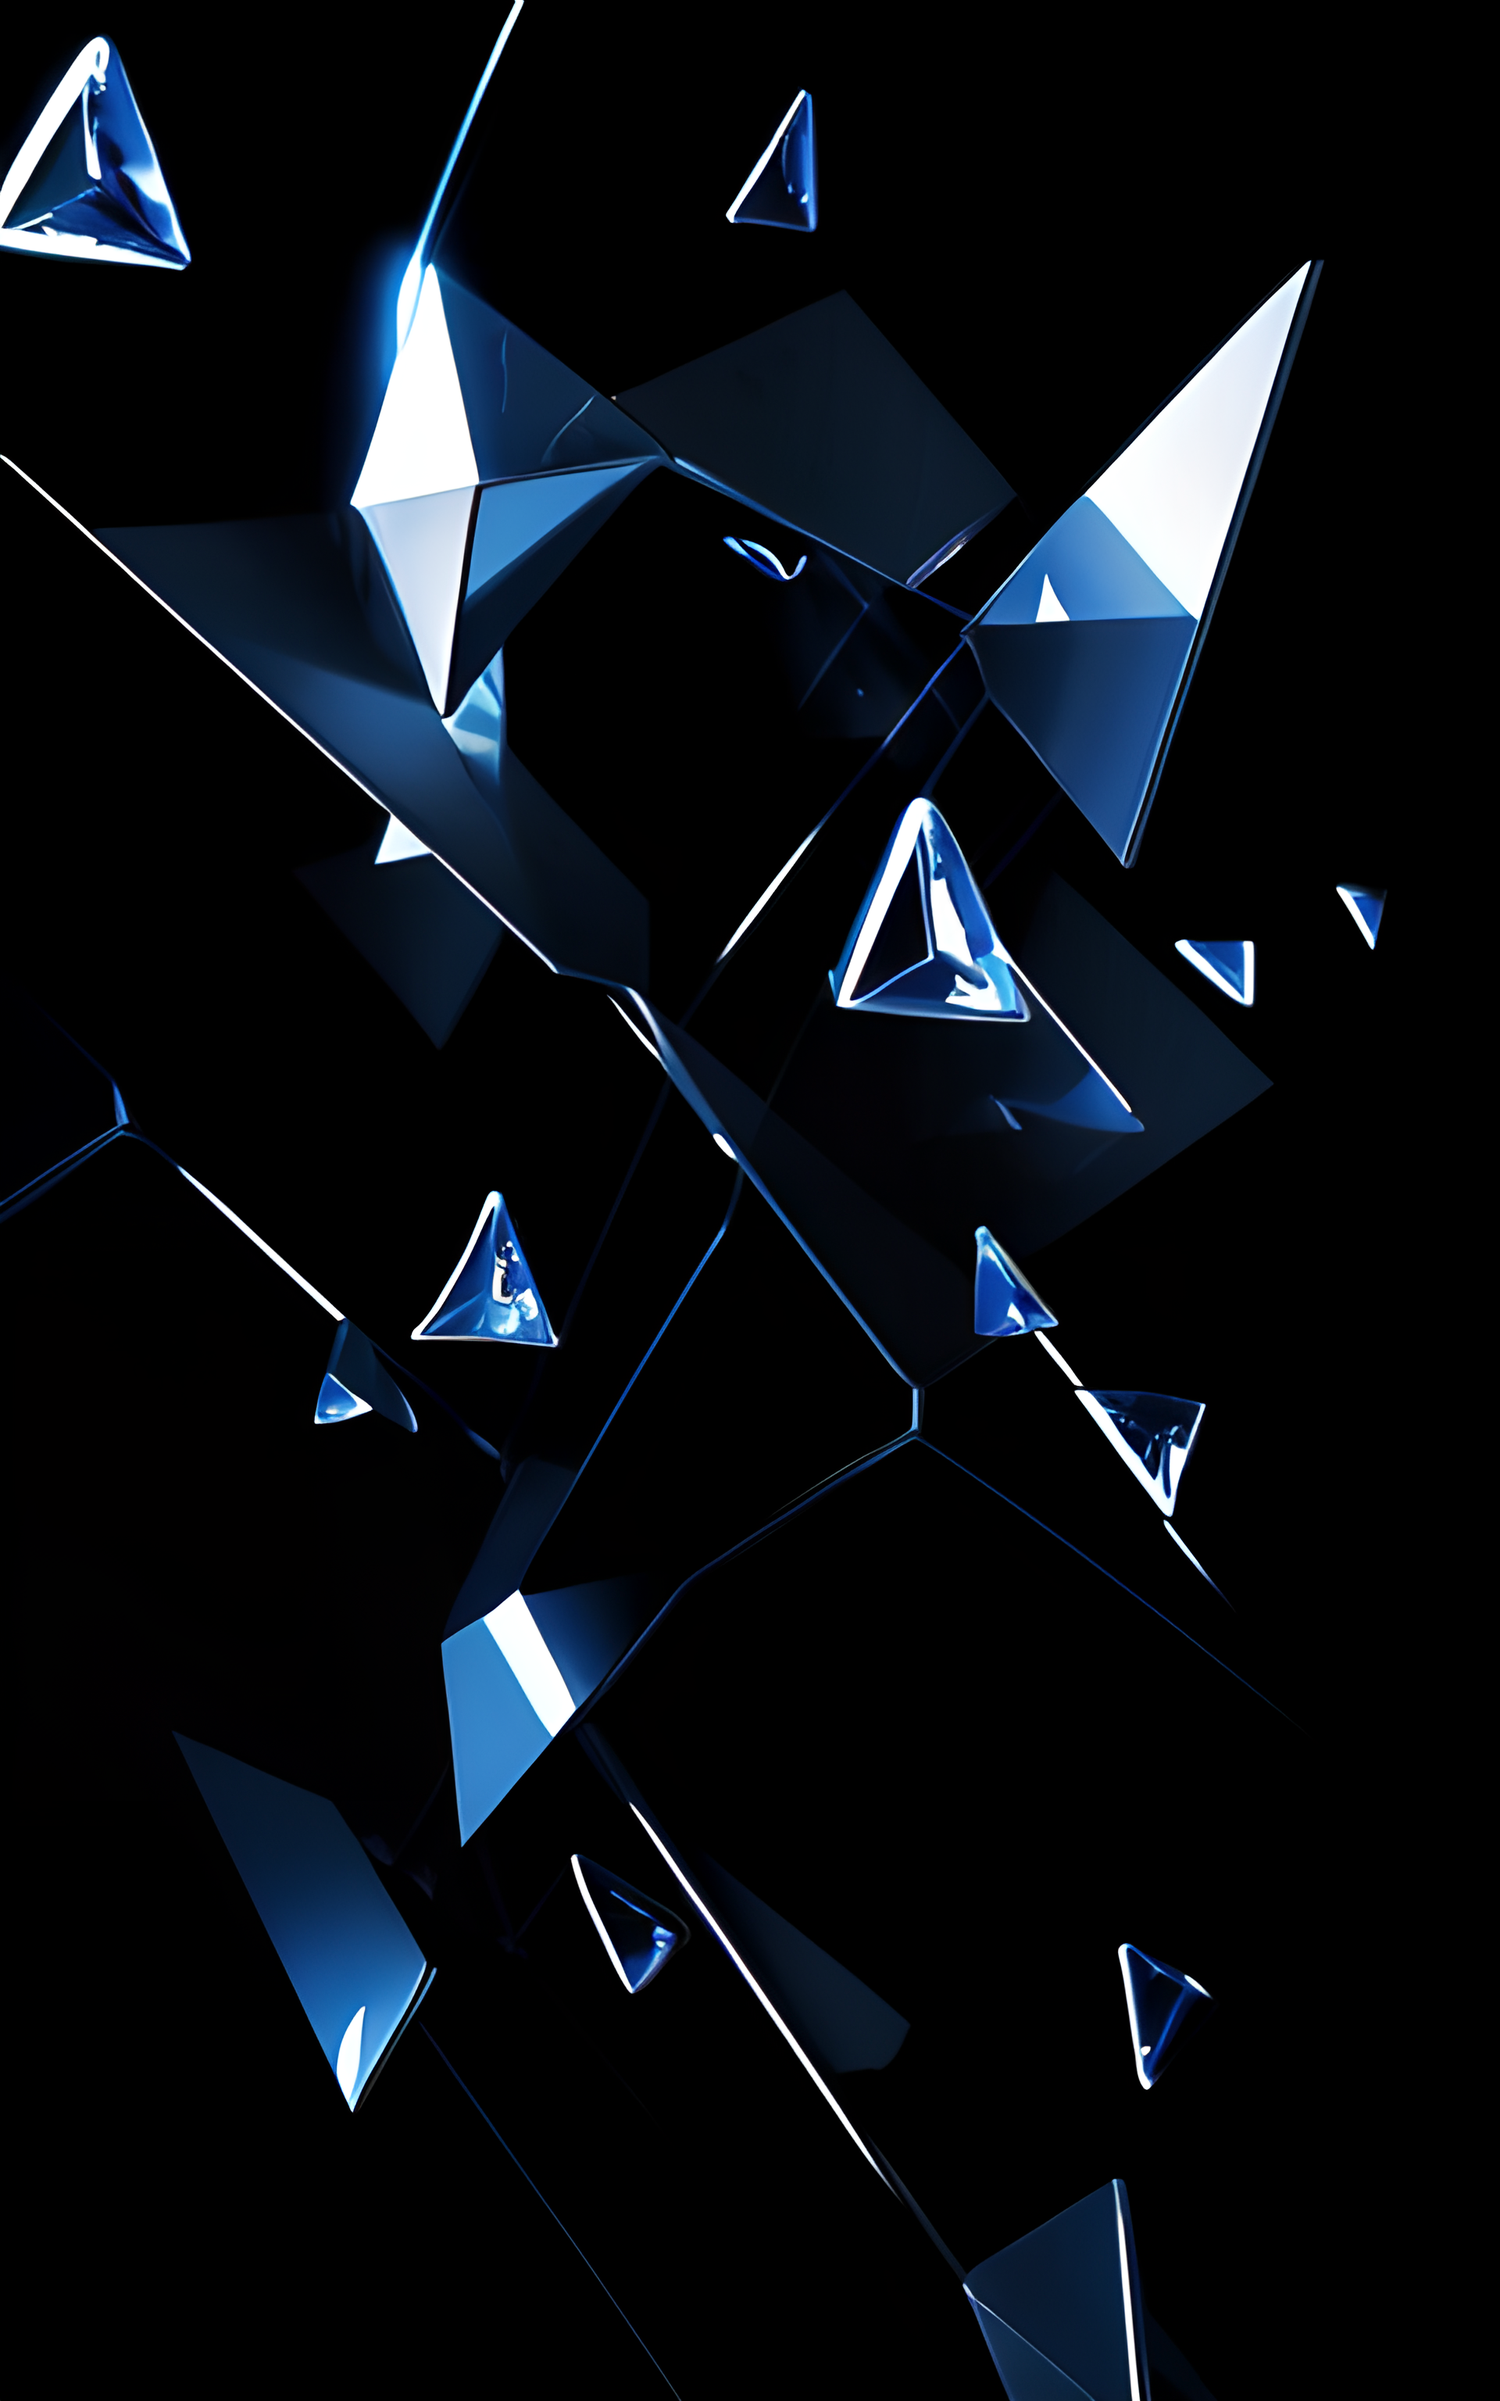
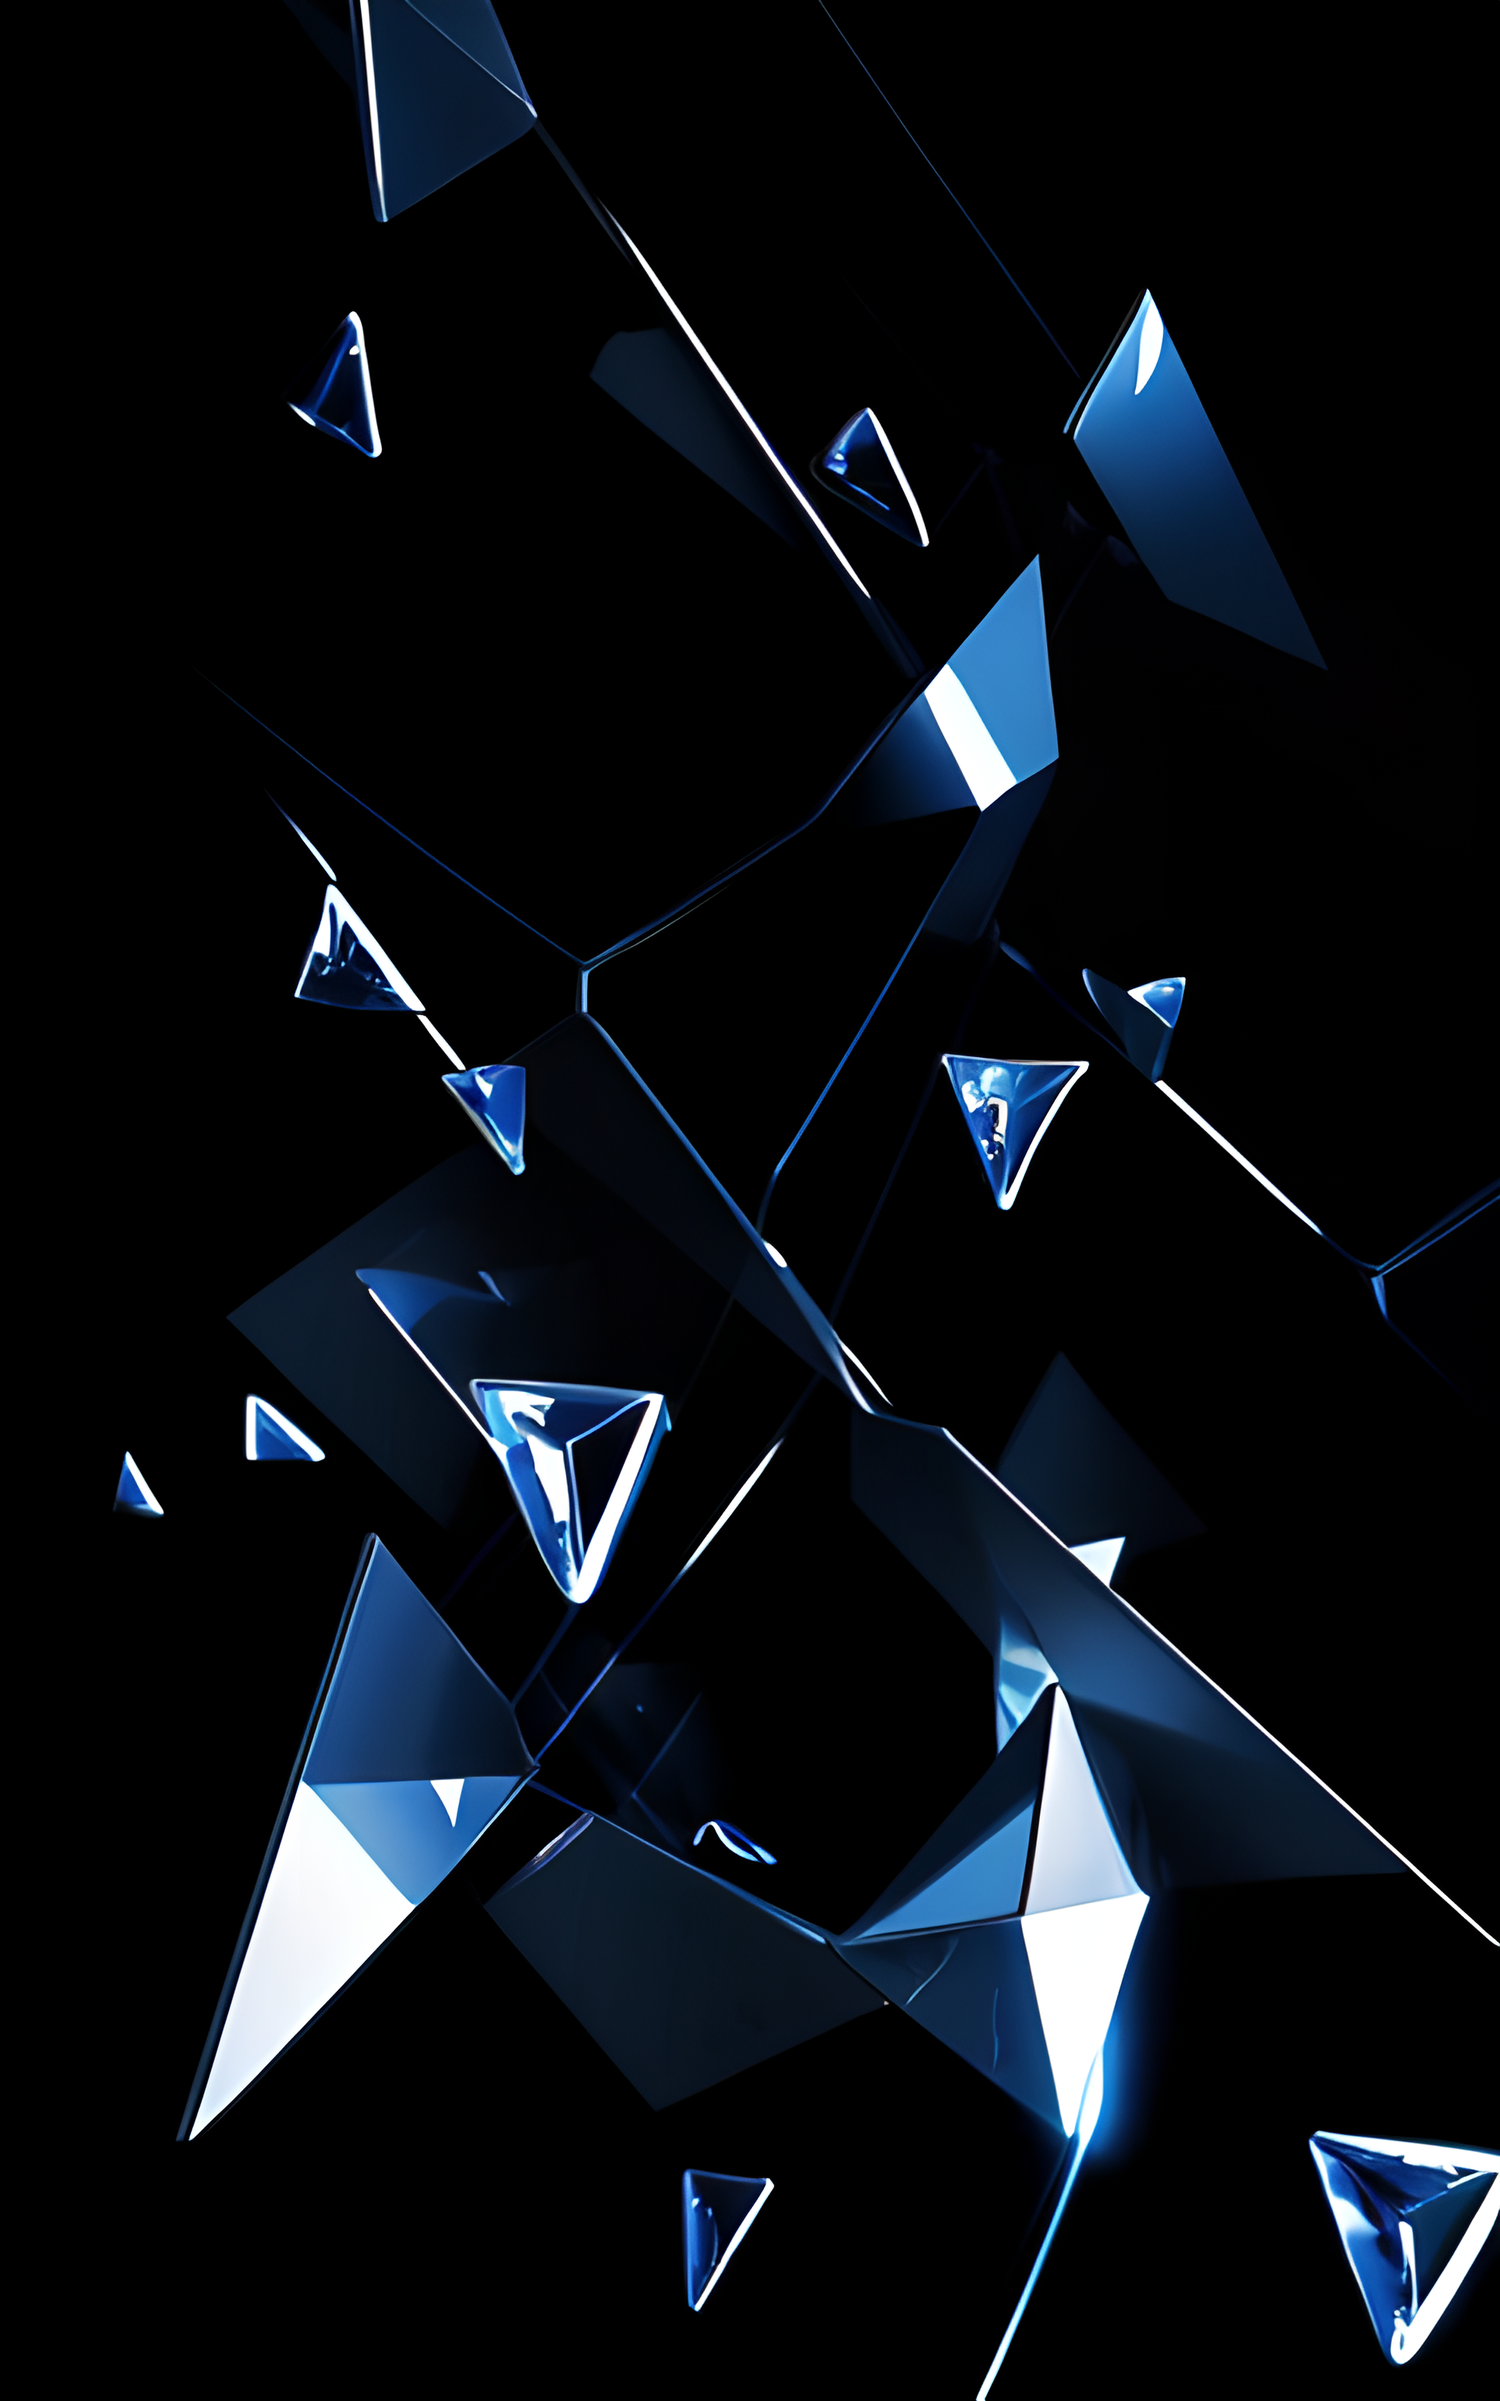
Created Second HTML page

diff --git a/script.js b/script.js
@@ -57,18 +57,23 @@ var endEl = document.getElementById("end");
 var endScoreEl = document.getElementById("score");
 var endInputEl = document.getElementById("initials");
 var endSubmitButton = document.getElementById("submit-button");
+var scoreListEl = document.querySelector("#score-list");
+var clearScore = document.getElementById("clear-scores");
+var goBack = document.getElementById("go-back");
 //**********************************************************************
 var timerElement = document.querySelector("#timer-count");
 var timerCount;
 var timer;
+var correctQuestions = 0;
+var finalScore;
 
-//****************************************************************************************************
+var savePlay;
+var storedPlays = localStorage.getItem("savePlay");
 
-// when all questions are answered or timer reaches 0
-// game over
-// then i can save initials and score
-// local storage
-//******************
+if (storedPlays !== null) {
+  savePlay = storedPlays;
+}
+
 
 function startQuiz() {
   startEl.setAttribute("class", "hide");
@@ -78,8 +83,43 @@ function startQuiz() {
 }
 
 function finishedQuiz() {
+  calculateScore();
   questionEl.setAttribute("class", "hide");
+  messageEl.setAttribute("class", "hide");
   endEl.removeAttribute("class");
+  endSubmitButton.addEventListener("click", saveScoreLocalStorage);
+}
+
+function renderScores() {
+  userInitals = localStorage.getItem("initials");
+  finalScore = localStorage.getItem("score");
+  var scoreList = document.createElement("li");
+  savePlay = userInitals + " - " + finalScore;
+  scoreList.textContent = savePlay;
+
+  scoreListEl.appendChild(scoreList);
+
+  localStorage.setItem("savePlay", savePlay);
+
+
+  goBack.addEventListener("click", function() {
+    location.replace("./index.html")
+  });
+}
+
+function saveScoreLocalStorage() {
+  var userInitals = endInputEl.value.trim();
+  localStorage.setItem("initials", userInitals);
+  localStorage.setItem("score", finalScore);
+  location.replace("./highscores.html");
+  renderScores()
+}
+
+function calculateScore() {
+  var gradePercentage = (correctQuestions / questions.length) * 100;
+  finalScore = gradePercentage + "%";
+  endScoreEl.textContent = finalScore;
+  return finalScore;
 }
 
 function startTimer() {
@@ -140,7 +180,8 @@ function renderQuestion() {
   }
 
   if (timerCount <= 0) {
-    console.log(timerCount);
+    qAnswerEl.removeChild(qAnswerDivEl);
+    messageEl.removeChild(messagePEl);
     return finishedQuiz();
   }
 
@@ -149,6 +190,7 @@ function renderQuestion() {
 
     if (element.textContent === q.correct) {
       messagePEl.textContent = message[1];
+      correctQuestions++;
     } else {
       messagePEl.textContent = message[0];
       timerCount = timerCount - 10;
@@ -179,4 +221,12 @@ function renderQuestion() {
   });
 }
 
-startButton.addEventListener("click", startQuiz);
+function init() {
+  if (startButton === null) {
+    renderScores();
+  } else {
+    startButton.addEventListener("click", startQuiz);
+  }
+}
+
+init();

diff --git a/style.css b/style.css
@@ -11,10 +11,7 @@ body,
 
 body {
   font-family: Arial, Helvetica, sans-serif;
-  background-image: url(./assets/background.png);
-  background-size: cover;
-  background-repeat: no-repeat;
-  background-color: black;
+
 }
 
 .wrapper {
@@ -33,18 +30,53 @@ header {
   justify-content: space-between;
 }
 
-.card {
-  display: block;
-  background-image: url(./assets/card.png);
+.mainbackground {
+  background-image: url(./assets/background.png);
+  background-size: cover;
+  background-repeat: no-repeat;
+  background-color: rgb(0, 0, 0);
+}
+
+.secondarybackground {
+  background-image: url(./assets/background2.png);
+  background-size: cover;
+  background-repeat: no-repeat;
+  background-color: black;
+}
+
+.maincard {
+  background-image: url(./assets/card.png), linear-gradient(175deg, rgba(67, 108, 131, 0.788) 0%, rgba(0, 0, 255, 0.185) 100%);
+  background-blend-mode: color-dodge;
   background-size: cover;
   background-repeat: no-repeat;
   opacity: 98%;
+}
+
+.secondarycard{
+  background-image: url(./assets/card2.png), linear-gradient(175deg, rgba(67, 108, 131, 0.788) 0%, rgba(0, 0, 255, 0.185) 100%);
+  background-blend-mode: overlay;
+  background-size: cover;
+  background-repeat: no-repeat;
+  opacity: 98%;
+}
+
+.card {
+  display: block;
   color: #cacaca;
   font-size: 18px;
   font-variant: small-caps;
   margin: 0 auto;
   max-width: 800px;
   padding: 45px 45px;
+}
+
+.score-footer {
+  padding: 40px 0;
+  display: flex;
+  flex-direction: row;
+  justify-content: center;
+  align-items: center;
+  flex-wrap: wrap;
 }
 
 footer {
@@ -65,6 +97,14 @@ ul {
 #start,
 #end {
   text-align: center;
+}
+
+#go-back,
+#clear-scores {
+  margin: 16px 16px 16px 20px;
+  padding: 10px 10px;
+  text-align: center;
+  width: 300px;
 }
 
 #start-button,
@@ -106,6 +146,43 @@ button:hover {
   color: #28aaf5;
 }
 
+a {
+  text-decoration: none;
+}
+
 .hide {
   display: none;
 }
+
+#initials {
+  width: 80%;
+  border-radius: 10px;
+  border: 1px solid black;
+  padding-top: 15px;
+  padding-left: 20px;
+  padding-right: 20px;
+  padding-bottom: 35px;
+  font-size: 1.5rem;
+  margin-top: 30px;
+  margin-bottom: 5px;
+  color: whitesmoke;
+  background: radial-gradient(circle, rgb(53, 57, 75) 0%, rgba(58, 52, 3, 0.509) 0%, rgba(0,0,0,1) 100%);
+}
+
+#score-list {
+  display: block;
+  width: 100%;
+  padding-top: 10px;
+  padding-left: 20px;
+  padding-right: 20px;
+  padding-bottom: 40px;
+  font-size: 1.5rem;
+  margin-top: 30px;
+  margin-bottom: 5px;
+  border: 1px solid #050505;
+  overflow: hidden;
+  color: whitesmoke;
+  resize: none;
+  background: radial-gradient(circle, rgb(53, 57, 75) 0%, rgba(58, 52, 3, 0.509) 0%, rgba(0,0,0,1) 100%);
+}
+

diff --git a/highscores.html b/highscores.html
@@ -1,0 +1,35 @@
+<!DOCTYPE html>
+<html lang="en">
+  <head>
+    <meta charset="UTF-8" />
+    <meta name="viewport" content="width=device-width, initial-scale=1.0" />
+    <meta http-equiv="X-UA-Compatible" content="ie=edge" />
+    <link rel="stylesheet" href="style.css" />
+    <title>Highscores</title>
+  </head>
+  <body class="secondarybackground">
+    <div class="wrapper">
+      <header>
+        <h1>Highscores</h1>
+      </header>
+
+      <div class="card secondarycard">
+        <div class="secheader">
+          <h2>Your HighScore</h2>
+        </div>
+
+        <div class="card-body">
+            <ul id="score-list">
+
+            </ul>
+        </div>
+
+        <div class="score-footer">
+          <button id="go-back">Go Back</button>
+          <button id="clear-scores">Clear Scores</button>
+        </div>
+      </div>
+    </div>
+    <script src="script.js"></script>
+  </body>
+</html>

diff --git a/index.html b/index.html
@@ -7,13 +7,13 @@
     <link rel="stylesheet" href="style.css" />
     <title>Coding Quiz</title>
   </head>
-  <body>
+  <body class="mainbackground">
     <div class="wrapper">
       <header>
         <h1>Coding Quiz</h1>
         <h2>Timer: <span id="timer-count"></span></h2>
       </header>
-      <div class="card">
+      <div class="card maincard">
         <div id="start" class="">
           <h2 id="start-title">Coding Quiz Challenge</h2>
           <p id="start-message">
@@ -33,7 +33,7 @@
           </div>
         </div>
 
-        <div id="message">
+        <div id="message" class="">
           <!-- <JavaScript Appended Right or Wrong Message> -->
         </div>
 
@@ -45,7 +45,7 @@
         </div>
       </div>
       <footer>
-        <h2>View Highscores</h2>
+        <a href="./highscores.html">View Highscores</a>
       </footer>
     </div>
     <script src="script.js"></script>
